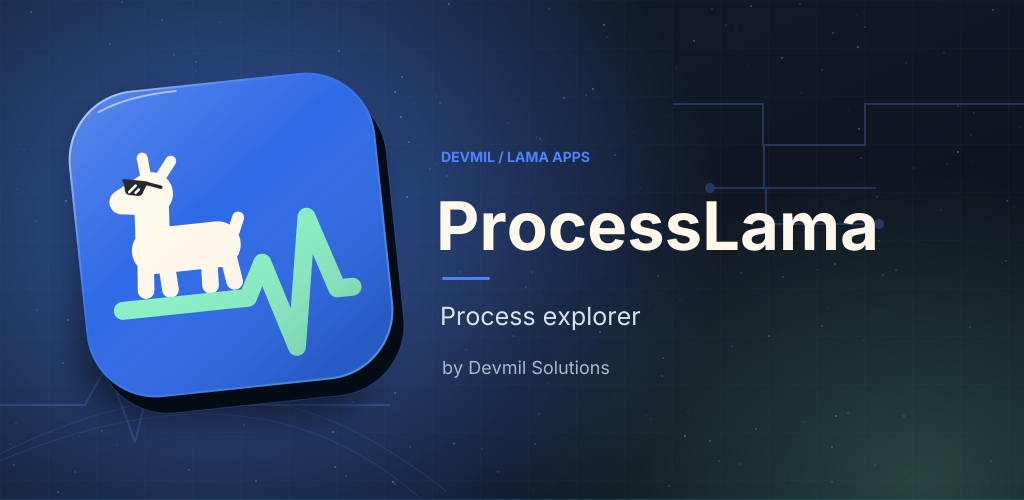
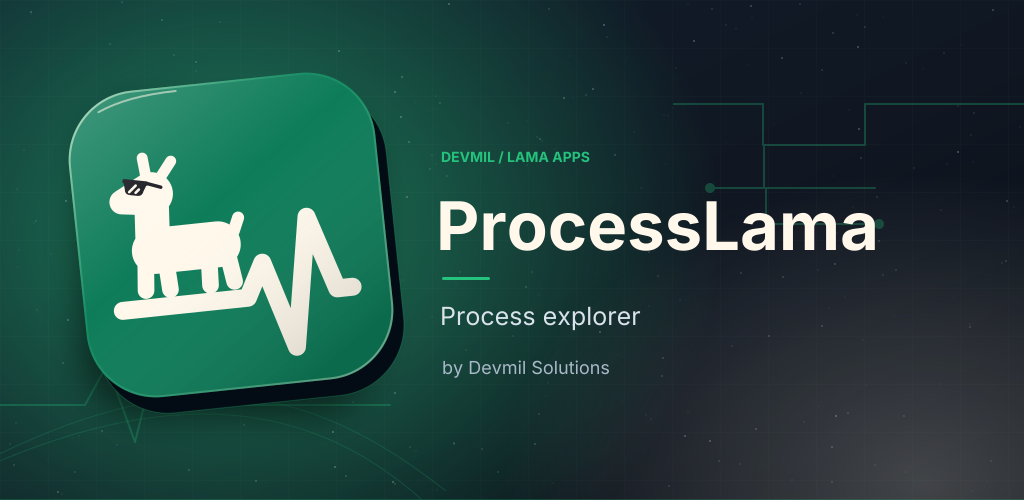
Sync website from Forgejo

diff --git a/website/releases.html b/website/releases.html
@@ -1,9 +1,9 @@
 <!doctype html>
 <html lang="en">
-  <head><meta charset="utf-8"><meta name="viewport" content="width=device-width, initial-scale=1"><meta name="description" content="Download ProcessLama for macOS, Linux, and Windows."><title>Download ProcessLama</title><link rel="canonical" href="https://devmil.de/processlama/releases.html"><link rel="icon" href="favicon.ico" sizes="any"><link rel="icon" href="assets/brand/processlama-icon.svg" type="image/svg+xml"><link rel="apple-touch-icon" sizes="180x180" href="assets/icons/apple-touch-icon.png"><meta name="theme-color" content="#e8ecee" media="(prefers-color-scheme: light)"><meta name="theme-color" content="#0b151a" media="(prefers-color-scheme: dark)"><link rel="stylesheet" href="styles.css?v=bf1cb3609d54"><script>document.documentElement.classList.add("js");</script><script src="site.js?v=1dceacc77431" defer></script></head>
+  <head><meta charset="utf-8"><meta name="viewport" content="width=device-width, initial-scale=1"><meta name="description" content="Download ProcessLama for macOS, Linux, and Windows."><title>Download ProcessLama</title><link rel="canonical" href="https://devmil.de/processlama/releases.html"><link rel="icon" href="favicon.ico?v=40686994f202" sizes="any"><link rel="icon" href="assets/brand/processlama-icon.svg?v=3c6a3d3545c0" type="image/svg+xml"><link rel="apple-touch-icon" sizes="180x180" href="assets/icons/apple-touch-icon.png?v=20a163e9b2f7"><meta name="theme-color" content="#e8ecee" media="(prefers-color-scheme: light)"><meta name="theme-color" content="#0b151a" media="(prefers-color-scheme: dark)"><link rel="stylesheet" href="styles.css?v=907f46e92d0b"><script>document.documentElement.classList.add("js");</script><script src="site.js?v=5d5f50fb7b5f" defer></script></head>
   <body>
     <a class="skip-link" href="#main">Skip to content</a>
-    <header class="site-header"><nav aria-label="Main"><a class="brand" href="index.html"><img class="brand-mark" src="assets/brand/processlama-icon.svg" alt="" width="28" height="28"><span class="brand-name">ProcessLama</span></a><div class="nav-links"><a href="index.html#window">Window</a><a href="index.html#features">Features</a><a class="nav-cta" href="releases.html" aria-current="page">Download</a></div></nav></header>
+    <header class="site-header"><nav aria-label="Main"><a class="brand" href="index.html"><img class="brand-mark" src="assets/brand/processlama-icon.svg?v=3c6a3d3545c0" alt="" width="28" height="28"><span class="brand-name">ProcessLama</span></a><div class="nav-links"><a href="index.html#window">Window</a><a href="index.html#features">Features</a><a class="nav-cta" href="releases.html" aria-current="page">Download</a></div></nav></header>
     <main id="main"><section class="page-hero"><div class="page"><p class="eyebrow">Downloads</p><h1>Download ProcessLama. <span class="soft">Every file, every build.</span></h1><p class="lede">Files for macOS, Linux, and Windows, each with its SHA-256 checksum. macOS updates itself; on Linux and Windows the app links back here when a new build is ready.</p></div></section><section class="page release-page"><section class="release-card">
       <div class="release-card-heading"><h2>ProcessLama 1.0.0-beta.23</h2><span class="chip">Beta</span><span class="chip">Build 30</span></div>
       <p class="release-meta">Released 2026-10-04 · <a href="download/ProcessLama-1.0.0-beta.23-30.html">Release notes</a></p>
@@ -45,6 +45,6 @@
[1 lines of base64/hex data omitted]
     </li></ul></section></div>
     </section><section class="release-empty"><h2>Stable</h2><p>No build published yet.</p></section><section class="release-history"><h2>Earlier beta builds</h2><ul class="island"><li><div class="history-version">1.0.0-beta.22<span>build 29 · 2026-10-04</span><span>Linux, macOS, Windows</span></div><div class="history-files"><a class="chip" href="https://github.com/devmil/processlama/releases/download/v1.0.0-beta.22-29/ProcessLama-1.0.0-beta.22-29.dmg">DMG</a><a class="chip" href="https://github.com/devmil/processlama/releases/download/v1.0.0-beta.22-29/ProcessLama-1.0.0-beta.22-29-linux-x86_64.AppImage">AppImage</a><a class="chip" href="https://github.com/devmil/processlama/releases/download/v1.0.0-beta.22-29/ProcessLama-1.0.0-beta.22-29-linux-x86_64.deb">DEB</a><a class="chip" href="https://github.com/devmil/processlama/releases/download/v1.0.0-beta.22-29/ProcessLama-1.0.0-beta.22-29-linux-x86_64.rpm">RPM</a><a class="chip" href="https://github.com/devmil/processlama/releases/download/v1.0.0-beta.22-29/ProcessLama-1.0.0-beta.22-29-linux-x86_64.tar.gz">Portable tarball</a><a class="chip" href="https://github.com/devmil/processlama/releases/download/v1.0.0-beta.22-29/ProcessLama-1.0.0-beta.22-29-windows-x86_64.msi">Windows installer</a><a class="chip" href="https://github.com/devmil/processlama/releases/download/v1.0.0-beta.22-29/ProcessLama-1.0.0-beta.22-29-windows-x86_64.zip">Portable ZIP</a></div></li><li><div class="history-version">1.0.0-beta.21<span>build 26 · 2026-10-03</span><span>Linux, macOS, Windows</span></div><div class="history-files"><a class="chip" href="https://github.com/devmil/Mimameidr/releases/download/v1.0.0-beta.21-26/Mimameidr-1.0.0-beta.21-26.dmg">DMG</a><a class="chip" href="https://github.com/devmil/Mimameidr/releases/download/v1.0.0-beta.21-26/Mimameidr-1.0.0-beta.21-26-linux-x86_64.AppImage">AppImage</a><a class="chip" href="https://github.com/devmil/Mimameidr/releases/download/v1.0.0-beta.21-26/Mimameidr-1.0.0-beta.21-26-linux-x86_64.deb">DEB</a><a class="chip" href="https://github.com/devmil/Mimameidr/releases/download/v1.0.0-beta.21-26/Mimameidr-1.0.0-beta.21-26-linux-x86_64.rpm">RPM</a><a class="chip" href="https://github.com/devmil/Mimameidr/releases/download/v1.0.0-beta.21-26/Mimameidr-1.0.0-beta.21-26-linux-x86_64.tar.gz">Portable tarball</a><a class="chip" href="https://github.com/devmil/Mimameidr/releases/download/v1.0.0-beta.21-26/Mimameidr-1.0.0-beta.21-26-windows-x86_64.msi">Windows installer</a><a class="chip" href="https://github.com/devmil/Mimameidr/releases/download/v1.0.0-beta.21-26/Mimameidr-1.0.0-beta.21-26-windows-x86_64.zip">Portable ZIP</a></div></li><li><div class="history-version">1.0.0-beta.20<span>build 25 · 2026-09-29</span><span>Linux, macOS, Windows</span></div><div class="history-files"><a class="chip" href="https://github.com/devmil/Mimameidr/releases/download/v1.0.0-beta.20-25/Mimameidr-1.0.0-beta.20-25.dmg">DMG</a><a class="chip" href="https://github.com/devmil/Mimameidr/releases/download/v1.0.0-beta.20-25/Mimameidr-1.0.0-beta.20-25-linux-x86_64.AppImage">AppImage</a><a class="chip" href="https://github.com/devmil/Mimameidr/releases/download/v1.0.0-beta.20-25/Mimameidr-1.0.0-beta.20-25-linux-x86_64.deb">DEB</a><a class="chip" href="https://github.com/devmil/Mimameidr/releases/download/v1.0.0-beta.20-25/Mimameidr-1.0.0-beta.20-25-linux-x86_64.rpm">RPM</a><a class="chip" href="https://github.com/devmil/Mimameidr/releases/download/v1.0.0-beta.20-25/Mimameidr-1.0.0-beta.20-25-linux-x86_64.tar.gz">Portable tarball</a><a class="chip" href="https://github.com/devmil/Mimameidr/releases/download/v1.0.0-beta.20-25/Mimameidr-1.0.0-beta.20-25-windows-x86_64.msi">Windows installer</a><a class="chip" href="https://github.com/devmil/Mimameidr/releases/download/v1.0.0-beta.20-25/Mimameidr-1.0.0-beta.20-25-windows-x86_64.zip">Portable ZIP</a></div></li><li><div class="history-version">1.0.0-beta.19<span>build 24 · 2026-09-28</span><span>Linux, macOS, Windows</span></div><div class="history-files"><a class="chip" href="https://github.com/devmil/Mimameidr/releases/download/v1.0.0-beta.19-24/Mimameidr-1.0.0-beta.19-24.dmg">DMG</a><a class="chip" href="https://github.com/devmil/Mimameidr/releases/download/v1.0.0-beta.19-24/Mimameidr-1.0.0-beta.19-24-linux-x86_64.AppImage">AppImage</a><a class="chip" href="https://github.com/devmil/Mimameidr/releases/download/v1.0.0-beta.19-24/Mimameidr-1.0.0-beta.19-24-linux-x86_64.deb">DEB</a><a class="chip" href="https://github.com/devmil/Mimameidr/releases/download/v1.0.0-beta.19-24/Mimameidr-1.0.0-beta.19-24-linux-x86_64.rpm">RPM</a><a class="chip" href="https://github.com/devmil/Mimameidr/releases/download/v1.0.0-beta.19-24/Mimameidr-1.0.0-beta.19-24-linux-x86_64.tar.gz">Portable tarball</a><a class="chip" href="https://github.com/devmil/Mimameidr/releases/download/v1.0.0-beta.19-24/Mimameidr-1.0.0-beta.19-24-windows-x86_64.msi">Windows installer</a><a class="chip" href="https://github.com/devmil/Mimameidr/releases/download/v1.0.0-beta.19-24/Mimameidr-1.0.0-beta.19-24-windows-x86_64.zip">Portable ZIP</a></div></li></ul></section></section></main>
-    <footer class="site-footer"><span class="footer-brand"><img src="assets/brand/processlama-icon.svg" alt="" width="20" height="20">ProcessLama</span><span class="footer-links"><a href="index.html">Home</a><a href="download/appcast.xml">macOS appcast</a></span><span class="footer-maker"><span class="signature" aria-hidden="true"></span>by Devmil Solutions. Built on Meridian. Every download has a SHA-256 checksum.</span></footer>
+    <footer class="site-footer"><span class="footer-brand"><img src="assets/brand/processlama-icon.svg?v=3c6a3d3545c0" alt="" width="20" height="20">ProcessLama</span><span class="footer-links"><a href="index.html">Home</a><a href="download/appcast.xml">macOS appcast</a></span><span class="footer-maker"><span class="signature" aria-hidden="true"></span>by Devmil Solutions. Built on Meridian. Every download has a SHA-256 checksum.</span></footer>
   </body>
 </html>

diff --git a/website/index.html b/website/index.html
@@ -10,12 +10,12 @@
     >
     <link rel="canonical" href="https://devmil.de/processlama/">
     <meta name="author" content="Devmil Solutions">
-    <link rel="icon" href="favicon.ico" sizes="any">
-    <link rel="icon" href="assets/brand/processlama-icon.svg" type="image/svg+xml">
-    <link rel="icon" type="image/png" sizes="32x32" href="assets/icons/favicon-32.png">
-    <link rel="icon" type="image/png" sizes="16x16" href="assets/icons/favicon-16.png">
-    <link rel="apple-touch-icon" sizes="180x180" href="assets/icons/apple-touch-icon.png">
-    <link rel="manifest" href="site.webmanifest">
+    <link rel="icon" href="favicon.ico?v=40686994f202" sizes="any">
+    <link rel="icon" href="assets/brand/processlama-icon.svg?v=3c6a3d3545c0" type="image/svg+xml">
+    <link rel="icon" type="image/png" sizes="32x32" href="assets/icons/favicon-32.png?v=70ec80852d4a">
+    <link rel="icon" type="image/png" sizes="16x16" href="assets/icons/favicon-16.png?v=a2257fa591c5">
+    <link rel="apple-touch-icon" sizes="180x180" href="assets/icons/apple-touch-icon.png?v=20a163e9b2f7">
+    <link rel="manifest" href="site.webmanifest?v=4a1da52cc7f8">
     <link rel="preload" href="assets/fonts/Geist-SemiBold.ttf" as="font" type="font/ttf" crossorigin>
     <meta name="theme-color" content="#e8ecee" media="(prefers-color-scheme: light)">
     <meta name="theme-color" content="#0b151a" media="(prefers-color-scheme: dark)">
@@ -23,18 +23,18 @@
     <meta property="og:description" content="Processes as a tree, with CPU, memory, network, and storage figures and an inspector for details.">
     <meta property="og:type" content="website">
     <meta property="og:url" content="https://devmil.de/processlama/">
-    <meta property="og:image" content="https://devmil.de/processlama/assets/brand/processlama-feature-graphic.png">
+    <meta property="og:image" content="https://devmil.de/processlama/assets/brand/processlama-feature-graphic.png?v=0f01a3331868">
     <meta property="og:image:width" content="1024">
     <meta property="og:image:height" content="500">
     <meta property="og:image:alt" content="The ProcessLama app icon next to the name ProcessLama">
     <meta name="twitter:card" content="summary_large_image">
-    <meta name="twitter:image" content="https://devmil.de/processlama/assets/brand/processlama-feature-graphic.png">
+    <meta name="twitter:image" content="https://devmil.de/processlama/assets/brand/processlama-feature-graphic.png?v=0f01a3331868">
     <script type="application/ld+json">{"@context": "https://schema.org", "@type": "SoftwareApplication", "name": "ProcessLama", "url": "https://devmil.de/processlama/", "applicationCategory": "UtilitiesApplication", "operatingSystem": "macOS, Linux, Windows", "author": {"@type": "Organization", "name": "Devmil Solutions", "url": "https://devmil.de/"}}</script>
-    <link rel="stylesheet" href="styles.css?v=bf1cb3609d54">
+    <link rel="stylesheet" href="styles.css?v=907f46e92d0b">
     <link rel="stylesheet" href="assets/lama/lama-antics.css?v=dee389f948ea">
     <script>document.documentElement.classList.add("js");</script>
-    <script src="assets/lama/lama-antics.js?v=746d574e2814" defer></script>
-    <script src="site.js?v=1dceacc77431" defer></script>
+    <script src="assets/lama/lama-antics.js?v=d94b524e100f" defer></script>
+    <script src="site.js?v=5d5f50fb7b5f" defer></script>
   </head>
   <body>
     <!-- Icons: Lucide (lucide-static 1.37.0, ISC), the set Meridian ships in the app. -->
@@ -68,7 +68,7 @@
     <header class="site-header">
       <nav aria-label="Main">
         <a class="brand" href="./">
-          <img class="brand-mark" src="assets/brand/processlama-icon.svg" alt="" width="26" height="26">
+          <img class="brand-mark" src="assets/brand/processlama-icon.svg?v=3c6a3d3545c0" alt="" width="26" height="26">
           <span class="brand-name">ProcessLama</span>
         </a>
         <div class="nav-links">
@@ -112,8 +112,8 @@
         <!-- The Lama stands on the pulse line that site.js draws; it opens with
              the hello pose, then lifts its chin to the proud mark. -->
         <div class="hero-lama is-hello" data-hero-lama aria-hidden="true">
-          <img class="pose proud" src="assets/lama/lama-proud.svg" alt="" width="120" height="120">
-          <img class="pose hello" src="assets/lama/lama-standing-nod.svg" alt="" width="120" height="120">
+          <img class="pose proud" src="assets/lama/lama-proud.svg?v=a8d927b48be1" alt="" width="120" height="120">
+          <img class="pose hello" src="assets/lama/lama-standing-nod.svg?v=5c385b984c76" alt="" width="120" height="120">
         </div>
         <p class="hero-caption status live" aria-hidden="true">
           <span class="dot"></span>
@@ -210,7 +210,7 @@
             <div class="sketch-scrim" data-demo-about hidden>
               <div class="sketch-dialog" role="dialog" aria-modal="true" aria-labelledby="sketch-about-title">
                 <h3 id="sketch-about-title">About ProcessLama</h3>
-                <div class="about-ground"><img src="assets/lama/lama-proud.svg" alt="" width="96" height="96"></div>
+                <div class="about-ground"><img src="assets/lama/lama-proud.svg?v=a8d927b48be1" alt="" width="96" height="96"></div>
                 <p><strong>ProcessLama</strong><span>by Devmil Solutions</span><small data-release="about">Beta build</small></p>
                 <div class="sketch-dialog-actions"><button class="button small" type="button" data-demo-about-close>Close</button></div>
               </div>
@@ -388,7 +388,7 @@
     </main>
 
     <footer class="site-footer">
-      <span class="footer-brand"><img src="assets/brand/processlama-icon.svg" alt="" width="20" height="20">ProcessLama</span>
+      <span class="footer-brand"><img src="assets/brand/processlama-icon.svg?v=3c6a3d3545c0" alt="" width="20" height="20">ProcessLama</span>
       <span class="footer-links"><a href="releases.html">Downloads</a><a href="download/appcast.xml">macOS appcast</a></span>
       <span class="footer-maker"><span class="signature" aria-hidden="true"></span>by Devmil Solutions. Built on Meridian.</span>
     </footer>

diff --git a/website/styles.css b/website/styles.css
@@ -75,13 +75,13 @@
   --series-7: #0784a8;
   --series-8: #5d8a12;
 
-  --accent: #2e69e6;
+  --accent: #0e7c59;
   --on-accent: #ffffff;
-  --on-accent-muted: #f2f6ff;
-  --accent-soft: #e3ecfe;
-  --accent-ink: #2a5fd0;
-  --focus: #2e69e6;
-  --brand: #16505f;
+  --on-accent-muted: #ecf9f2;
+  --accent-soft: #daf2e6;
+  --accent-ink: #026f4f;
+  --focus: #0e7c59;
+  --brand: #00402c;
 
   --shadow-pane: 0 0 0 1px rgba(15, 27, 33, 0.07), 0 1px 2px rgba(15, 27, 33, 0.05);
   --shadow-float: 0 0 0 1px rgba(15, 27, 33, 0.09), 0 16px 40px -12px rgba(15, 27, 33, 0.28);
@@ -119,13 +119,13 @@
     --series-7: #4cc9f0;
     --series-8: #a3d65c;
 
-    --accent: #4c82fb;
-    --on-accent: #050c1c;
-    --on-accent-muted: #081a40;
-    --accent-soft: #1d2a45;
-    --accent-ink: #86aeff;
-    --focus: #86aeff;
-    --brand: #1f6f78;
+    --accent: #24c27d;
+    --on-accent: #03130c;
+    --on-accent-muted: #043d2a;
+    --accent-soft: #0b3627;
+    --accent-ink: #80d6b0;
+    --focus: #80d6b0;
+    --brand: #1a533e;
 
     --shadow-pane: 0 0 0 1px rgba(255, 255, 255, 0.05), 0 1px 2px rgba(0, 0, 0, 0.35);
     --shadow-float: 0 0 0 1px rgba(255, 255, 255, 0.08), 0 16px 40px -12px rgba(0, 0, 0, 0.7);
@@ -163,13 +163,13 @@
   --series-7: #4cc9f0;
   --series-8: #a3d65c;
 
-  --accent: #4c82fb;
-  --on-accent: #050c1c;
-  --on-accent-muted: #081a40;
-  --accent-soft: #1d2a45;
-  --accent-ink: #86aeff;
-  --focus: #86aeff;
-  --brand: #1f6f78;
+  --accent: #24c27d;
+  --on-accent: #03130c;
+  --on-accent-muted: #043d2a;
+  --accent-soft: #0b3627;
+  --accent-ink: #80d6b0;
+  --focus: #80d6b0;
+  --brand: #1a533e;
 
   --shadow-pane: 0 0 0 1px rgba(255, 255, 255, 0.05), 0 1px 2px rgba(0, 0, 0, 0.35);
   --shadow-float: 0 0 0 1px rgba(255, 255, 255, 0.08), 0 16px 40px -12px rgba(0, 0, 0, 0.7);
@@ -226,11 +226,14 @@
 
   /* Lama brand colours (Devmil brand.json). Ivory and graphite stay inside
      the artwork; the hero and the Lama stages sit on the app's brand ground
-     in both appearances. --prop is the pulse line of the app icon's scene. */
+     in both appearances. --prop is the pulse line of the app icon's scene.
+     --signal is Meridian's dark accent ink, the green that reads on the
+     brand ground. */
   --ivory: #fff8eb;
   --graphite: #17171e;
-  --brand-ground: #16505f;
-  --prop: #7fd6e0;
+  --brand-ground: #00402c;
+  --prop: #fff8eb;
+  --signal: #80d6b0;
 
   --content: 1160px;
   --gutter: 24px;
@@ -547,14 +550,14 @@ button {
 /* Hero: on the brand ground, a drawn process tree (site.js) grows from a
    live pulse line, and the Lama stands on that line. The hero redefines the
    Meridian surface tokens it uses, so the tree, the labels and the status
-   dot read on teal in both appearances. */
+   dot read on green in both appearances. */
 
 .hero {
   --ink: var(--ivory);
   --ink-muted: rgba(255, 248, 235, 0.74);
-  --raised: #0f3c47;
+  --raised: #002e20;
   --line-strong: rgba(255, 248, 235, 0.2);
-  --tree-branch: var(--prop);
+  --tree-branch: var(--signal);
   --tree-leaf: #f2c14e;
   --tree-lit: var(--ivory);
   --success: #6fdc8c;
@@ -570,7 +573,7 @@ button {
   align-items: center;
   min-height: clamp(600px, 88svh, 860px);
   background:
-    radial-gradient(90% 70% at 78% 100%, rgba(127, 214, 224, 0.14), transparent 70%),
+    radial-gradient(90% 70% at 78% 100%, rgba(36, 194, 125, 0.16), transparent 70%),
     var(--brand-ground);
   color: var(--ink);
 }
@@ -620,7 +623,7 @@ button {
 }
 
 .eyebrow-maker {
-  color: var(--prop);
+  color: var(--signal);
 }
 
 .hero h1 {
@@ -631,7 +634,7 @@ button {
 }
 
 .hero .soft {
-  color: var(--prop);
+  color: var(--signal);
 }
 
 .lede {
@@ -1913,7 +1916,7 @@ button.tbtn:hover span {
 }
 
 /* Features, laid out as a tree: a trunk with one branch per feature, in the
-   same teal and amber as the hero. */
+   process tree's teal and amber. */
 
 .split {
   display: grid;

diff --git a/website/site.js b/website/site.js
@@ -30,7 +30,7 @@
     const MAX_DEPTH = 5;
 
     /* Colours are Meridian tokens read from the page, so the drawing follows
-       light and dark: teal branches, amber leaves, the accent for the path
+       light and dark: green branches, amber leaves, the accent for the path
        being followed, success for a spawn and danger for an exit. */
     let paint = {};
     function readPaint() {
@@ -543,7 +543,7 @@
     if (lama && window.LamaAntics) {
       LamaAntics.attach(lama, {
         base: "assets/lama/",
-        colors: ["#4C82FB", "#8AF0C6", "#FFF8EB"],
+        colors: ["#24C27D", "#80D6B0", "#FFF8EB"],
         taps: {
           stomp: async (antic) => {
             await antic.move("bigHop");

diff --git a/website/assets/lama/lama-antics.js b/website/assets/lama/lama-antics.js
@@ -10,7 +10,7 @@
 
      const antics = LamaAntics.attach(lamaElement, {
        base: "assets/lama/",        // folder holding the pose SVGs
-       colors: ["#4C82FB", ...],    // confetti and hearts
+       colors: ["#24C27D", ...],    // confetti and hearts
        idle: { name: (api) => ... },// optional site antics
        taps: { name: (api) => ... },
      });
